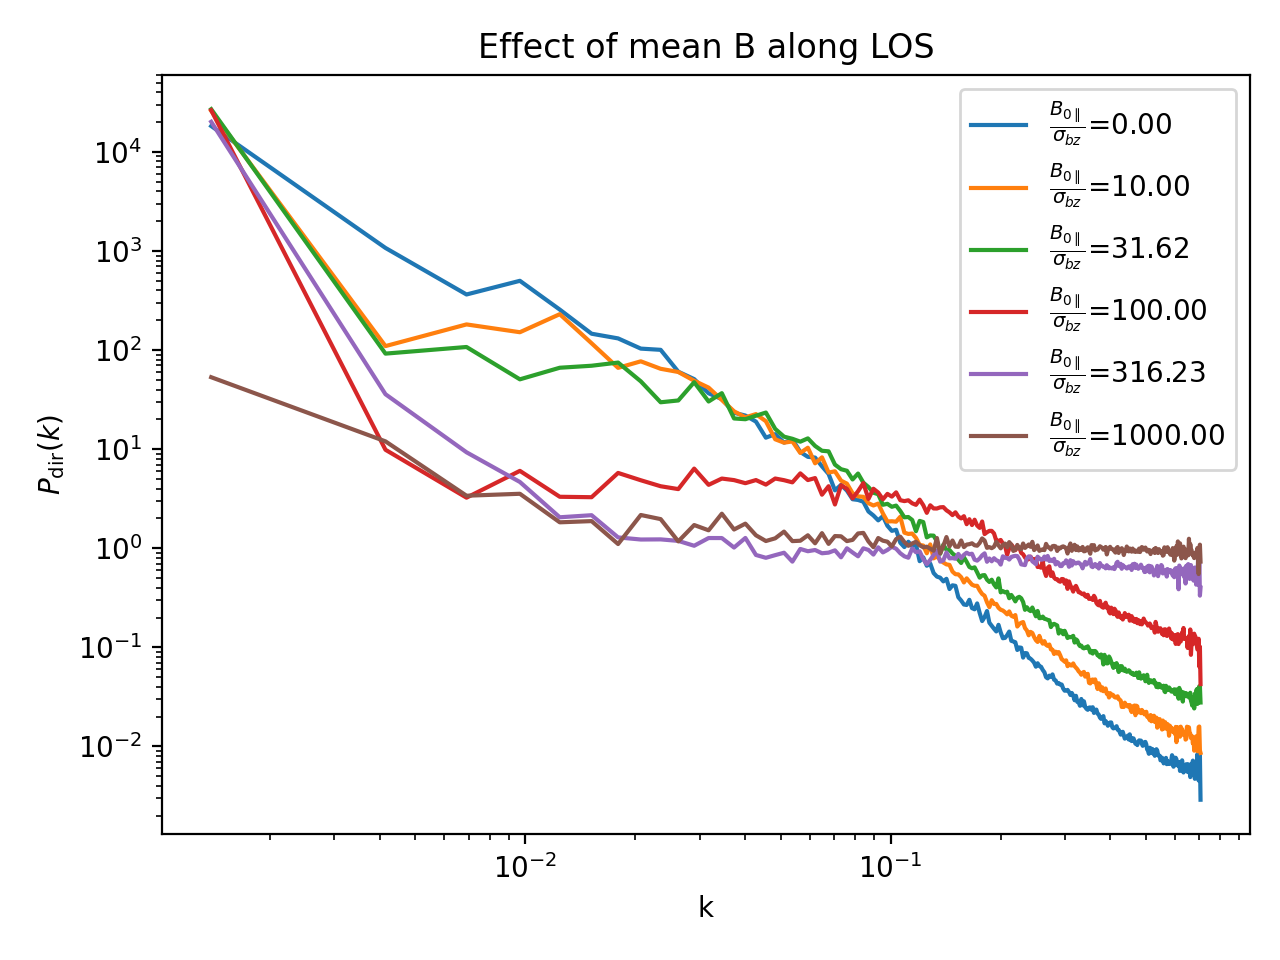
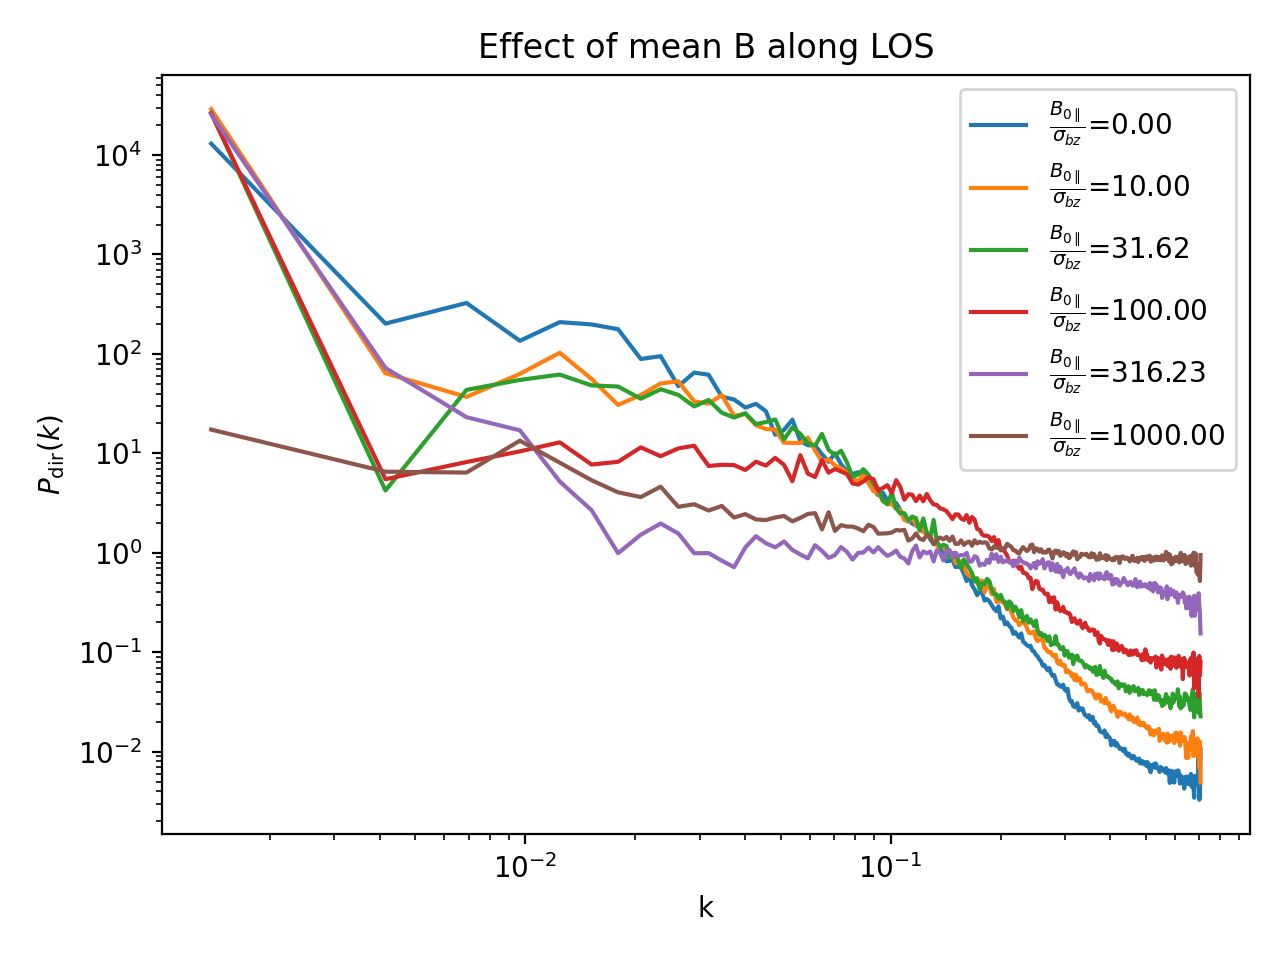
Update mean magnetic field analysis with new data file and output format
This commit changes the main function to load a new data file for analysis and updates the plot title to reflect the Alfvénic Mach number. Additionally, the output format for the polarization map visualization is changed from PNG to PDF, and a new binary file for theoretical overlay is introduced.

diff --git a/mean_magnetic_field/mean_magnetic_field.py b/mean_magnetic_field/mean_magnetic_field.py
@@ -64,7 +64,7 @@ def fbm3d(nz, ny, nx, H, seed=1234):
     return f
 
 def main():
-    h5_path = r"D:\Рабочая папка\GitHub\AstroTurbulence\faradays_angles_stats\lp_structure_tests\synthetic_kolmogorov_normal.h5"
+    h5_path = r"D:\Рабочая папка\GitHub\AstroTurbulence\faradays_angles_stats\lp_structure_tests\ms01ma08.mhd_w.00300.vtk.h5"
     ne,bz,dx,dz = load_density_and_field(h5_path)
     ne = ensure3d(ne); bz = ensure3d(bz)
     nz,ny,nx = ne.shape
@@ -85,10 +85,10 @@ def main():
         )
 
     plt.xlabel("k"); plt.ylabel("$P_{\\rm dir}(k)$")
-    plt.title("Effect of mean B along LOS")
+    plt.title("Effect of mean B along LOS ($M_{\\rm A} = 0.8$)")
     plt.legend()
     plt.tight_layout()
-    plt.savefig("Pdir_meanfield.png", dpi=200)
+    plt.savefig("Pdir_meanfield.pdf", dpi=200)
     plt.show()
 
 if __name__=="__main__":
